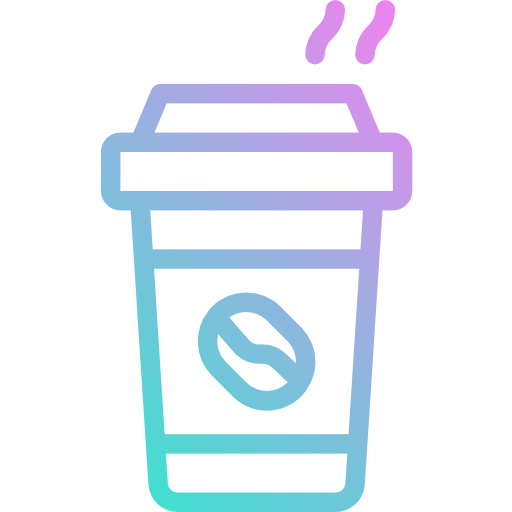
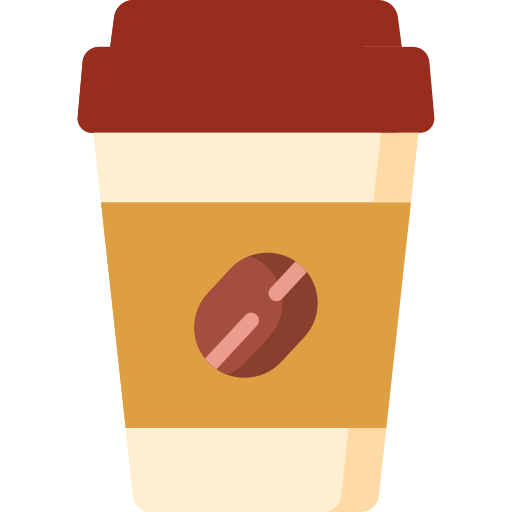
novos icones

diff --git a/app/assets/stylesheets/components/_avatar.scss b/app/assets/stylesheets/components/_avatar.scss
@@ -1,41 +1,7 @@
 .avatar {
-  height: 90px;
-  width: 90px;
+  height: 100px;
+  width: 100px;
   border-radius: 50%;
   object-fit: cover;
-}
-
-.avatar-large {
-  width: 56px;
-  border-radius: 50%;
-}
-
-.avatar-bordered {
-  width: 40px;
-  border-radius: 50%;
-  box-shadow: 0 1px 2px rgba(0,0,0,0.2);
-  border: white 1px solid;
-}
-
-.avatar-square {
-  width: 40px;
-  border-radius: 0px;
-  box-shadow: 0 1px 2px rgba(0,0,0,0.2);
-  border: white 1px solid;
-}
-
-#profile_ps {
-  top: 100px;
-  position: absolute;
-  margin-bottom: 100px;
-}
-
-#nova{
-  background-color: #F1ECE5;
-  border-radius: 100px;
-  width: 100vw;
-}
-
-#stresse {
-  background-color: #F1ECE5 !important;
+  margin-top: -30px;
 }

diff --git a/app/assets/stylesheets/components/_user_profile.scss b/app/assets/stylesheets/components/_user_profile.scss
@@ -1,0 +1,20 @@
+#profile_ps {
+  top: 100px;
+  position: absolute;
+  margin-bottom: 100px;
+}
+  
+#profile {
+  background-color: white;
+  border-radius: 40px;
+  width: 100vw;
+}
+
+.list-group-item a {
+  color: black!important;
+}
+
+.borderless {
+  border: none;
+  background-color: #ebe9e9a6;
+}

diff --git a/app/assets/stylesheets/components/_index.scss b/app/assets/stylesheets/components/_index.scss
@@ -14,4 +14,5 @@
 @import "button";
 @import "map";
 @import "coffee_pack";
+@import "user_profile";
 
